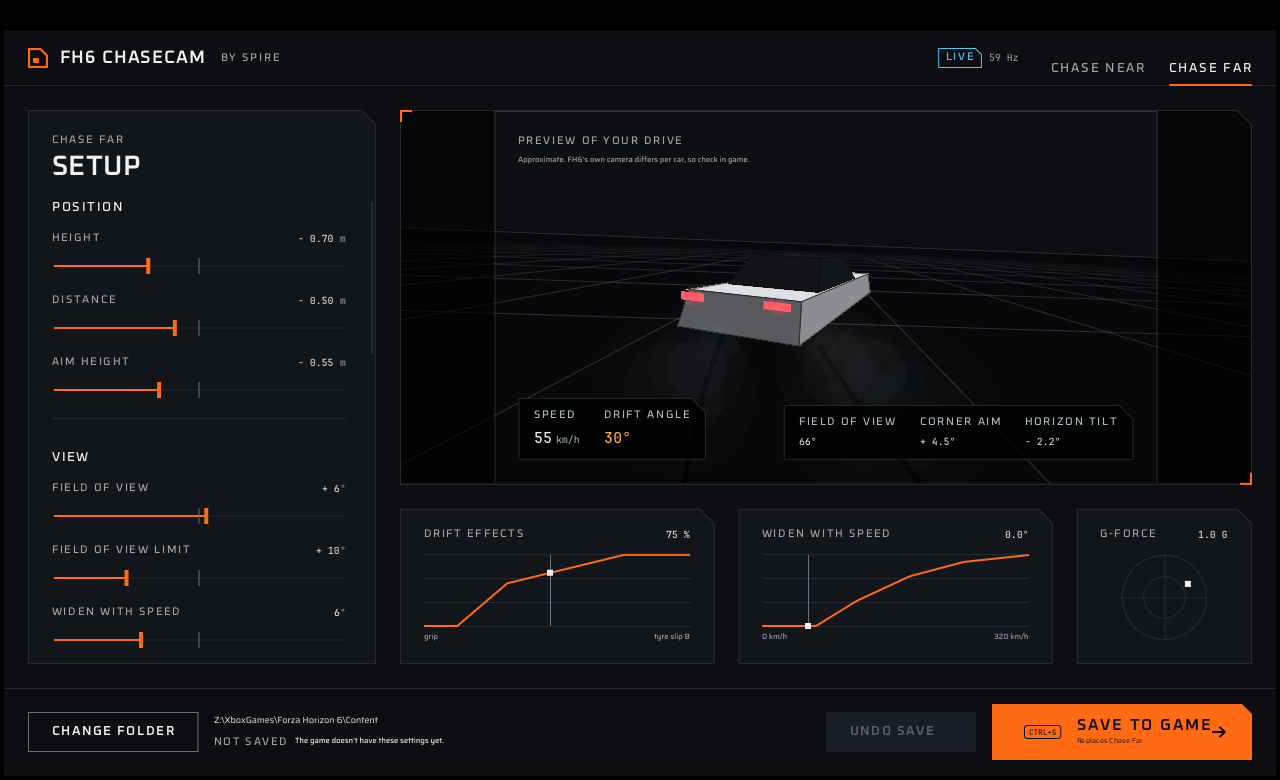
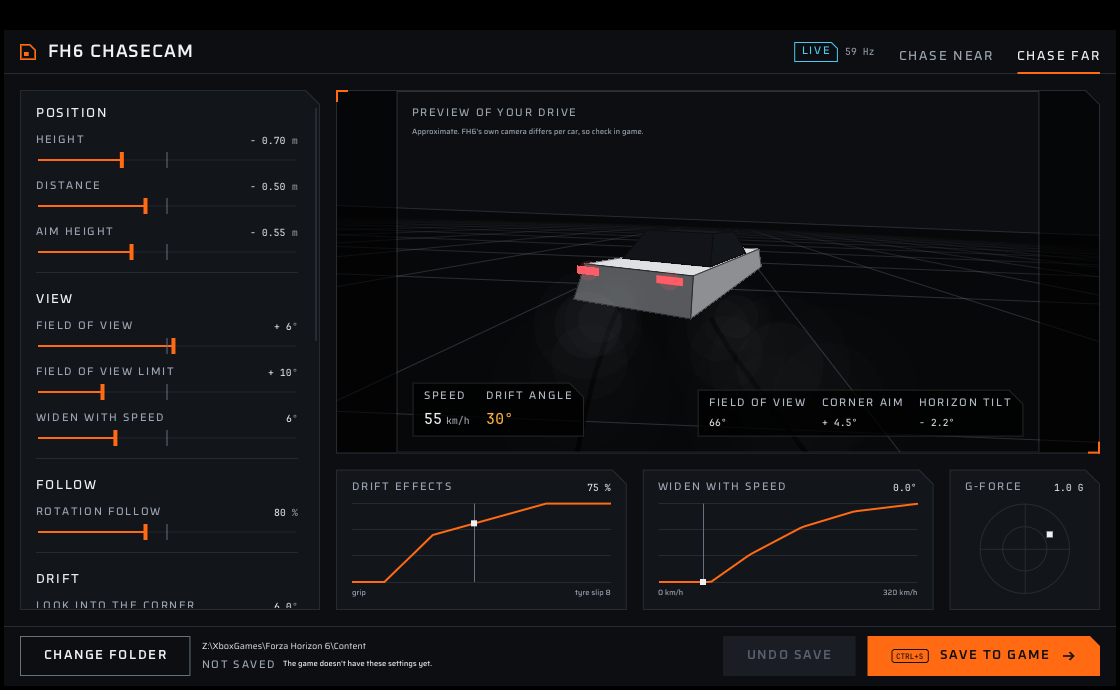
Make the editor more compact and drop the byline
- 16px gutters and panel padding instead of 24, slimmer top bar and footer
- shorter slider rows, no Setup heading in the controls panel
- standard-height Save to game sized to its content
- smaller default window (1120x690) and minimum size
- top bar shows only the mark and name

diff --git a/editor/src/app.cpp b/editor/src/app.cpp
@@ -227,15 +227,15 @@ void App::frame(float W, float H) {
     ImGui::SetNextWindowSize(ImVec2(W, H));
     ImGui::Begin("##root", nullptr, ImGuiWindowFlags_NoDecoration | ImGuiWindowFlags_NoMove | ImGuiWindowFlags_NoSavedSettings |
                                     ImGuiWindowFlags_NoBringToFrontOnFocus | ImGuiWindowFlags_NoScrollWithMouse);
-    float g = SP6 * S;
-    float topH = 56 * S, footH = 88 * S, leftW = 348 * S;
+    float g = SP4 * S;
+    float topH = 44 * S, footH = 60 * S, leftW = 300 * S;
     ImGui::SetCursorPos(ImVec2(0, 0));
     topBar(W);
     float bodyY = topH + g, bodyH = H - topH - footH - 2 * g;
     ImGui::SetCursorPos(ImVec2(g, bodyY));
     controls(leftW, bodyH);
     float rx0 = g + leftW + g, rw = W - rx0 - g;
-    float stripH = std::clamp(bodyH * 0.28f, 150 * S, 190 * S);
+    float stripH = std::clamp(bodyH * 0.27f, 120 * S, 160 * S);
     ImGui::SetCursorPos(ImVec2(rx0, bodyY));
     previewCard(rw, bodyH - stripH - g);
     ImGui::SetCursorPos(ImVec2(rx0, bodyY + bodyH - stripH));
@@ -255,14 +255,13 @@ static void drawMark(ImDrawList* dl, ImVec2 p, float sz, ImU32 col) {
 void App::topBar(float w) {
     ImDrawList* dl = ImGui::GetWindowDrawList();
     ImVec2 p0 = ImGui::GetCursorScreenPos();
-    float h = 56 * S, g = SP6 * S, cy = p0.y + h / 2;
+    float h = 44 * S, g = SP4 * S, cy = p0.y + h / 2;
     dl->AddRectFilled(ImVec2(p0.x, p0.y + h - HAIR * S), ImVec2(p0.x + w, p0.y + h), rgb(LINE));
     // lockup: mark at 1.5x cap height, space-3, name
-    float mk = 20 * S;
+    float mk = 16 * S;
     drawMark(dl, ImVec2(p0.x + g, cy - mk / 2), mk, rgb(ORANGE));
     float nx = p0.x + g + mk + SP3 * S;
     drawText(dl, ImVec2(nx, cy - textHeight(Lockup) / 2 - 1 * S), Lockup, INK, "FH6 ChaseCam");
-    drawText(dl, ImVec2(nx + textWidth(Lockup, "FH6 ChaseCam") + SP4 * S, cy - textHeight(Label) / 2), Label, INK_MUTED, "by SPIRE");
 
     // camera slot, right
     static const char* slots[] = { "Chase Near", "Chase Far" };
@@ -280,7 +279,7 @@ void App::topBar(float w) {
     else std::snprintf(note, sizeof note, "Waiting for Data Out on port %d", port);
     Style ns = live || err ? Stat : Caption;
     float nw = textWidth(ns, note), tw = tagWidth(tg);
-    float right = p0.x + w - g - sw - SP8 * S;
+    float right = p0.x + w - g - sw - SP6 * S;
     drawText(dl, ImVec2(right - nw, cy - textHeight(ns) / 2 - 1 * S), ns, INK_MUTED, note);
     ImVec2 tp(right - nw - SP2 * S - tw, cy - 10 * S);
     tag(dl, tp, tone, tg);
@@ -294,14 +293,12 @@ void App::controls(float w, float h) {
     ImDrawList* dl = ImGui::GetWindowDrawList();
     ImVec2 a = ImGui::GetCursorScreenPos(), b(a.x + w, a.y + h);
     panel(dl, a, b, false);
-    float pad = SP6 * S;
-    drawText(dl, ImVec2(a.x + pad, a.y + pad), Label, INK_MUTED, fh6::SLOTS[p.slot ? 1 : 0].name);
-    drawText(dl, ImVec2(a.x + pad, a.y + pad + 14 * S + SP1 * S), Headline, INK, "Setup");
-    float top = pad + 14 * S + SP1 * S + 32 * S + SP4 * S;
+    float pad = SP4 * S;
+    float top = pad;
     ImGui::SetCursorScreenPos(ImVec2(a.x + 1 * S, a.y + top));
     ImGui::PushStyleVar(ImGuiStyleVar_WindowPadding, ImVec2(pad - 1 * S, 0));
     ImGui::BeginChild("##controls", ImVec2(w - 2 * S, h - top - 2 * S), ImGuiChildFlags_AlwaysUseWindowPadding);
-    ImGui::PushStyleVar(ImGuiStyleVar_ItemSpacing, ImVec2(SP3 * S, SP4 * S));
+    ImGui::PushStyleVar(ImGuiStyleVar_ItemSpacing, ImVec2(SP2 * S, SP3 * S));
     bool c = false;
     groupTitle("Position", true);
     c |= slider("h", "Height", &p.heightOfs, -2, 2, 0.05, " m", 2, true, -0.7,
@@ -370,7 +367,7 @@ void App::controls(float w, float h) {
     groupTitle("Reset", false);
     if (button("Reset setup", Btn::Danger)) { int slot = p.slot; p = fh6::CamParams(); p.slot = slot; changed(); }
     helpTooltip("Puts every setting above back to the FH6 ChaseCam defaults. Saved camera files stay until you save again.");
-    ImGui::Dummy(ImVec2(0, SP6 * S));
+    ImGui::Dummy(ImVec2(0, SP2 * S));
     ImGui::PopStyleVar();
     ImGui::EndChild();
     ImGui::PopStyleVar();
@@ -379,7 +376,7 @@ void App::controls(float w, float h) {
 // Compact HUD card on black glass: columns of label over value, bottom-anchored.
 struct HudCol { const char* label; std::string value; const char* unit; unsigned color; };
 static void hudCard(ImDrawList* dl, ImVec2 anchor, bool alignRight, const std::vector<HudCol>& cols, Style valueStyle) {
-    float S = ui::S, padX = SP4 * S, padY = SP3 * S, gap = SP6 * S;
+    float S = ui::S, padX = SP3 * S, padY = SP2 * S, gap = SP4 * S;
     float vh = textHeight(valueStyle), w = 0;
     std::vector<float> cw;
     for (auto& c : cols) {
@@ -424,7 +421,7 @@ void App::previewCard(float w, float h) {
         dl->AddRectFilled(ImVec2(b.x - rw, b.y - t), b, rgb(ORANGE));
     }
 
-    float g = SP6 * S;
+    float g = SP4 * S;
     drawText(dl, ImVec2(fa.x + g, fa.y + g), Label, INK_MUTED, live ? "Preview of your drive" : "Preview, demo drive");
     drawText(dl, ImVec2(fa.x + g, fa.y + g + 14 * S + SP1 * S), Caption, INK_MUTED,
              "Approximate. FH6's own camera differs per car, so check in game.");
@@ -449,10 +446,10 @@ void App::previewCard(float w, float h) {
 void App::chartPanel(ImDrawList* dl, ImVec2 a, ImVec2 b, const char* title, const char* value, const std::vector<fh6::Pt>& curve,
                      double xMax, double xNow, double xScale, const char* x0Label, const char* x1Label) {
     panel(dl, a, b, false);
-    float pad = SP6 * S;
+    float pad = SP4 * S;
     drawText(dl, ImVec2(a.x + pad, a.y + pad - 4 * S), Label, INK_MUTED, title);
     drawText(dl, ImVec2(b.x - pad - textWidth(Stat, value), a.y + pad - 5 * S), Stat, INK, value);
-    ImVec2 ga(a.x + pad, a.y + pad + 22 * S), gb(b.x - pad, b.y - pad - 14 * S);
+    ImVec2 ga(a.x + pad, a.y + pad + 18 * S), gb(b.x - pad, b.y - pad - 12 * S);
     for (int i = 0; i <= 3; i++) {
         float yy = std::floor(ga.y + (gb.y - ga.y) * i / 3.f);
         dl->AddRectFilled(ImVec2(ga.x, yy), ImVec2(gb.x, yy + HAIR * S), rgb(LINE));
@@ -476,7 +473,7 @@ void App::chartPanel(ImDrawList* dl, ImVec2 a, ImVec2 b, const char* title, cons
 void App::inputsStrip(float w, float h) {
     ImDrawList* dl = ImGui::GetWindowDrawList();
     ImVec2 a = ImGui::GetCursorScreenPos();
-    float g = SP6 * S, gw = h + 20 * S;
+    float g = SP4 * S, gw = h + 10 * S;
     float cw = (w - gw - 2 * g) / 2;
     char v1[48], v2[48];
     double effect = fh6::curveAt(fh6::DRIFT_CURVE, std::fabs(in.slip));
@@ -492,13 +489,13 @@ void App::inputsStrip(float w, float h) {
     // G-force circle
     ImVec2 ga(a.x + 2 * cw + 2 * g, a.y), gb(ga.x + gw, a.y + h);
     panel(dl, ga, gb, false);
-    float pad = SP6 * S;
+    float pad = SP4 * S;
     drawText(dl, ImVec2(ga.x + pad, ga.y + pad - 4 * S), Label, INK_MUTED, "G-force");
     char gv[32];
     std::snprintf(gv, sizeof gv, "%.1f G", std::hypot(in.latG, in.lonG));
     drawText(dl, ImVec2(gb.x - pad - textWidth(Stat, gv), ga.y + pad - 5 * S), Stat, INK, gv);
-    ImVec2 c((ga.x + gb.x) / 2, (ga.y + pad + 22 * S + gb.y - pad) / 2);
-    float r = std::min((gb.x - ga.x) / 2 - pad, (gb.y - pad - (ga.y + pad + 22 * S)) / 2);
+    ImVec2 c((ga.x + gb.x) / 2, (ga.y + pad + 18 * S + gb.y - pad) / 2);
+    float r = std::min((gb.x - ga.x) / 2 - pad, (gb.y - pad - (ga.y + pad + 18 * S)) / 2);
     dl->AddCircle(c, r, rgb(LINE), 48, HAIR * S);
     dl->AddCircle(c, r * 0.5f, rgb(LINE), 48, HAIR * S);
     dl->AddRectFilled(ImVec2(c.x - r, c.y), ImVec2(c.x + r, c.y + HAIR * S), rgb(LINE));
@@ -515,17 +512,17 @@ void App::inputsStrip(float w, float h) {
 void App::footer(float w, float h) {
     ImDrawList* dl = ImGui::GetWindowDrawList();
     ImVec2 p0 = ImGui::GetCursorScreenPos();
-    float g = SP6 * S, cy = p0.y + h / 2;
+    float g = SP4 * S, cy = p0.y + h / 2;
     dl->AddRectFilled(p0, ImVec2(p0.x + w, p0.y + HAIR * S), rgb(LINE));
 
     // right: undo, then the primary
-    const char* slotName = fh6::SLOTS[p.slot ? 1 : 0].name;
-    std::string sub = std::string("Replaces ") + slotName;
-    float pw = 260 * S, uw = 150 * S;
-    ImGui::SetCursorScreenPos(ImVec2(p0.x + w - g - pw, cy - 28 * S));
-    if (button("Save to game", Btn::Primary, true, pw, stockOk(), "CTRL+S", sub.c_str())) saveToGame();
-    helpTooltip("Writes the camera into mediapc\\camera in the game folder. Restart FH6 to load it.");
-    ImGui::SetCursorScreenPos(ImVec2(p0.x + w - g - pw - SP4 * S - uw, cy - 20 * S));
+    float pw = buttonWidth("Save to game", Btn::Primary, false, "CTRL+S"), uw = buttonWidth("Undo save", Btn::Secondary);
+    ImGui::SetCursorScreenPos(ImVec2(p0.x + w - g - pw, cy - 20 * S));
+    std::string tip = std::string("Writes the camera into mediapc\\camera in the game folder, replacing ") + fh6::SLOTS[p.slot ? 1 : 0].name +
+                      ". Restart FH6 to load it.";
+    if (button("Save to game", Btn::Primary, false, pw, stockOk(), "CTRL+S")) saveToGame();
+    helpTooltip(tip.c_str());
+    ImGui::SetCursorScreenPos(ImVec2(p0.x + w - g - pw - SP3 * S - uw, cy - 20 * S));
     if (button("Undo save", Btn::Secondary, false, uw, hasBackup())) undoSave();
     helpTooltip("Puts back the camera files that were in the game before your first save.");
 
@@ -536,7 +533,7 @@ void App::footer(float w, float h) {
         if (!picked.empty()) { gameDir = picked; stockDir.clear(); findStock(); changed(); checkSaved(); }
     }
     helpTooltip("The Forza Horizon 6 folder: the one with forzahorizon6.exe (Steam), or its Content folder (Xbox app).");
-    ImGui::SameLine(0, SP4 * S);
+    ImGui::SameLine(0, SP3 * S);
     float tx = ImGui::GetCursorScreenPos().x;
     if (!stockNote.empty()) {
         ImGui::SetCursorScreenPos(ImVec2(tx, cy - 20 * S));
@@ -553,7 +550,7 @@ void App::footer(float w, float h) {
         ImGui::SameLine(0, SP4 * S);
         tx = ImGui::GetCursorScreenPos().x;
     }
-    float textMax = p0.x + w - g - pw - SP4 * S - uw - SP6 * S - tx;
+    float textMax = p0.x + w - g - pw - SP3 * S - uw - SP4 * S - tx;
     std::string folder = gameDir.empty() ? "No game folder chosen" : u8(gameDir);
     std::string title, line;
     unsigned tone = INK_MUTED;
@@ -561,10 +558,10 @@ void App::footer(float w, float h) {
     else if (!stockNote.empty()) { title = "Warning"; line = stockNote; tone = ORANGE; }
     else if (stockOk()) { title = dirty ? "Not saved" : "Saved"; line = dirty ? "The game doesn't have these settings yet." : "The game has these settings."; tone = dirty ? INK_MUTED : COOL; }
     dl->PushClipRect(ImVec2(tx, p0.y), ImVec2(tx + std::max(0.f, textMax), p0.y + h), true);
-    drawText(dl, ImVec2(tx, cy - 20 * S), Body, gameDir.empty() ? INK_MUTED : INK, folder.c_str());
+    drawText(dl, ImVec2(tx, cy - 18 * S), Body, gameDir.empty() ? INK_MUTED : INK, folder.c_str());
     if (!line.empty()) {
-        drawText(dl, ImVec2(tx, cy + 4 * S), Label, tone, title.c_str());
-        drawText(dl, ImVec2(tx + textWidth(Label, title.c_str()) + SP2 * S, cy + 2 * S), Caption, INK, line.c_str());
+        drawText(dl, ImVec2(tx, cy + 3 * S), Label, tone, title.c_str());
+        drawText(dl, ImVec2(tx + textWidth(Label, title.c_str()) + SP2 * S, cy + 1 * S), Caption, INK, line.c_str());
     }
     dl->PopClipRect();
 }

diff --git a/editor/src/theme.cpp b/editor/src/theme.cpp
@@ -233,6 +233,15 @@ static void arrowIcon(ImDrawList* dl, ImVec2 p, float sz, ImU32 col) {
     dl->AddPolyline(c, 3, col, th, 0);
 }
 
+float buttonWidth(const char* label, Btn v, bool large, const char* hint, const char* sub) {
+    Style ls = large ? BtnTextLg : BtnText;
+    float padL = (large ? SP8 : (v == Btn::Ghost ? SP3 : SP6)) * S, padR = (v == Btn::Ghost ? SP3 : SP6) * S, gap = (large ? SP4 : SP3) * S;
+    float hintW = hint ? textWidth(Key, hint) + 10 * S : 0;
+    float lw = std::max(textWidth(ls, label), sub ? textWidth(Sub, sub) : 0.f);
+    float w = padL + (hint ? hintW + gap : 0) + lw + (v == Btn::Primary ? gap + (large ? 18 : 14) * S : 0) + padR;
+    return large ? std::max(w, 240 * S) : w;
+}
+
 bool button(const char* label, Btn v, bool large, float width, bool enabled, const char* hint, const char* sub) {
     ImDrawList* dl = ImGui::GetWindowDrawList();
     Style ls = large ? BtnTextLg : BtnText;
@@ -240,10 +249,7 @@ bool button(const char* label, Btn v, bool large, float width, bool enabled, con
           padR = (v == Btn::Ghost ? SP3 : SP6) * S, gap = (large ? SP4 : SP3) * S;
     bool arrow = v == Btn::Primary;
     float hintW = hint ? textWidth(Key, hint) + 10 * S : 0;
-    float lw = std::max(textWidth(ls, label), sub ? textWidth(Sub, sub) : 0.f);
-    float w = padL + (hint ? hintW + gap : 0) + lw + (arrow ? gap + (large ? 18 : 14) * S : 0) + padR;
-    if (large) w = std::max(w, 240 * S);
-    if (width > 0) w = width;
+    float w = width > 0 ? width : buttonWidth(label, v, large, hint, sub);
     ImVec2 a = ImGui::GetCursorScreenPos();
     ImGui::PushID(label);
     bool clicked = ImGui::InvisibleButton("##b", ImVec2(w, h)) && enabled;
@@ -315,8 +321,8 @@ bool slider(const char* id, const char* label, double* v, double mn, double mx, 
     ImDrawList* dl = ImGui::GetWindowDrawList();
     float w = ImGui::GetContentRegionAvail().x;
     ImVec2 p = ImGui::GetCursorScreenPos();
-    float labelH = 14 * S, inputTop = p.y + labelH + (SP2 + SP1) * S, inputH = 16 * S;
-    float rowH = labelH + (SP2 + SP1 + 16 + SP1) * S;
+    float labelH = 14 * S, inputTop = p.y + labelH + SP1 * S, inputH = 16 * S;
+    float rowH = labelH + (SP1 + 16) * S;
     bool changed = false;
     ImGui::InvisibleButton("##hit", ImVec2(w, rowH));
     bool hov = ImGui::IsItemHovered(), act = ImGui::IsItemActive();
@@ -457,7 +463,7 @@ void groupTitle(const char* t, bool first) {
     if (!first) {
         ImVec2 p = ImGui::GetCursorScreenPos();
         dl->AddRectFilled(p, ImVec2(p.x + ImGui::GetContentRegionAvail().x, p.y + HAIR * S), rgb(LINE));
-        ImGui::Dummy(ImVec2(0, SP4 * S));
+        ImGui::Dummy(ImVec2(0, SP2 * S));
     }
     text(Nav, INK, t);
 }

diff --git a/editor/src/main.cpp b/editor/src/main.cpp
@@ -106,8 +106,8 @@ static LRESULT WINAPI wndProc(HWND h, UINT msg, WPARAM w, LPARAM l) {
     case WM_GETMINMAXINFO: {
         float s = ImGui_ImplWin32_GetDpiScaleForHwnd(h);
         MINMAXINFO* m = (MINMAXINFO*)l;
-        m->ptMinTrackSize.x = (LONG)(980 * s);
-        m->ptMinTrackSize.y = (LONG)(660 * s);
+        m->ptMinTrackSize.x = (LONG)(900 * s);
+        m->ptMinTrackSize.y = (LONG)(580 * s);
         return 0;
     }
     case WM_SYSCOMMAND:
@@ -124,7 +124,7 @@ int WINAPI wWinMain(HINSTANCE inst, HINSTANCE, PWSTR cmd, int) {
     CoInitializeEx(nullptr, COINIT_APARTMENTTHREADED | COINIT_DISABLE_OLE1DDE);
     ImGui_ImplWin32_EnableDpiAwareness();
     float scale = ImGui_ImplWin32_GetDpiScaleForMonitor(MonitorFromPoint(POINT{ 0, 0 }, MONITOR_DEFAULTTOPRIMARY));
-    int winW = 1280, winH = 780; // optional: --size 1400x900
+    int winW = 1120, winH = 690; // optional: --size 1400x900
     if (const wchar_t* s = cmd ? wcsstr(cmd, L"--size ") : nullptr) swscanf(s + 7, L"%dx%d", &winW, &winH);
 
     WNDCLASSEXW wc = { sizeof(wc), CS_CLASSDC, wndProc, 0, 0, inst, LoadIconW(inst, L"APPICON"), LoadCursor(nullptr, IDC_ARROW),

diff --git a/editor/src/theme.hpp b/editor/src/theme.hpp
@@ -50,6 +50,7 @@ void panel(ImDrawList* dl, ImVec2 a, ImVec2 b, bool brackets, int glassPct = 0);
 
 // Components
 enum class Btn { Primary, Secondary, Ghost, Danger };
+float buttonWidth(const char* label, Btn variant, bool large = false, const char* hint = nullptr, const char* sub = nullptr);
 bool button(const char* label, Btn variant, bool large = false, float width = 0, bool enabled = true,
             const char* hint = nullptr, const char* sublabel = nullptr);
 bool slider(const char* id, const char* label, double* v, double min, double max, double step,
